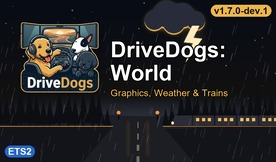
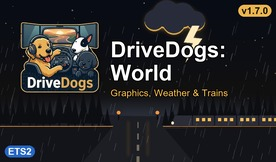
release world 1.7.0 after the playtest: daniel's asphalt-patch bump at 10 / 6.5 mm
The maintainer played 1.7.0-dev.1 with AiTraffic 1.7.2-dev.1 on ETS2 1.62.3.3 (no test package loaded): the bump on
the invisible road plates feels like the tested half height, and the log has no line from the patch models or their
materials. ADR-0008 records the result. Every generator is up to date, sign defs 2,023/0, model pairs 6,812/0 bad,
and check --strict passes.

Changed region(s): [[0.7536, 0.0, 0.9855, 0.1235]]

diff --git a/docs/adr/ADR-0008-world-patch-bump.md b/docs/adr/ADR-0008-world-patch-bump.md
@@ -46,6 +46,7 @@
 - Load order: World must sit above Daniel's Random Events when that mod is loaded on its own (it ships the 20 / 13
   mm copies). The AiTraffic megapack drops its copies in 1.7.2.
 - Changes against the tested `half` package: the collision copy is no longer drawn, and its substance is `road`
-  (Daniel's had none). The plate shapes and heights are the same. The dev build's playtest confirms that the
-  invisible plates collide.
+  (Daniel's had none). The plate shapes and heights are the same. The playtest of 1.7.0-dev.1 (2026-11-15, ETS2
+  1.62.3.3, with AiTraffic 1.7.2-dev.1 and no test package) confirmed that the invisible plates collide and feel
+  like `half`, with no log line from the patch models or their materials.
 - If the bump still feels too sharp, the next lever is a slope at the plate's edges instead of a step.

diff --git a/README.md b/README.md
@@ -4,7 +4,7 @@ ETS2 mod for the world around the road, built as a local **megapack** with the `
 `scs-mod-developer` agent profile. This repo holds only configuration and tools. The mod is built from the
 extracted base game, subscribed Workshop items and one local archive. It is never redistributed.
 
-Current content (v1.6.0, ETS2 1.62.1.0, checked on 1.62.3.3):
+Current content (v1.7.0, ETS2 1.62.1.0, checked on 1.62.3.3):
 
 - **Graphics** from Juninho944 (Weather_3.9, Asphalt_improved, grass_4.0_lite, tree_improved_4k), DIOX (Beautiful
   Nature), Darkcaptain (Realistic Rain) and DBM (Vegetation, Terrain Textures, Road Textures, Guard Rails 4K, World &
